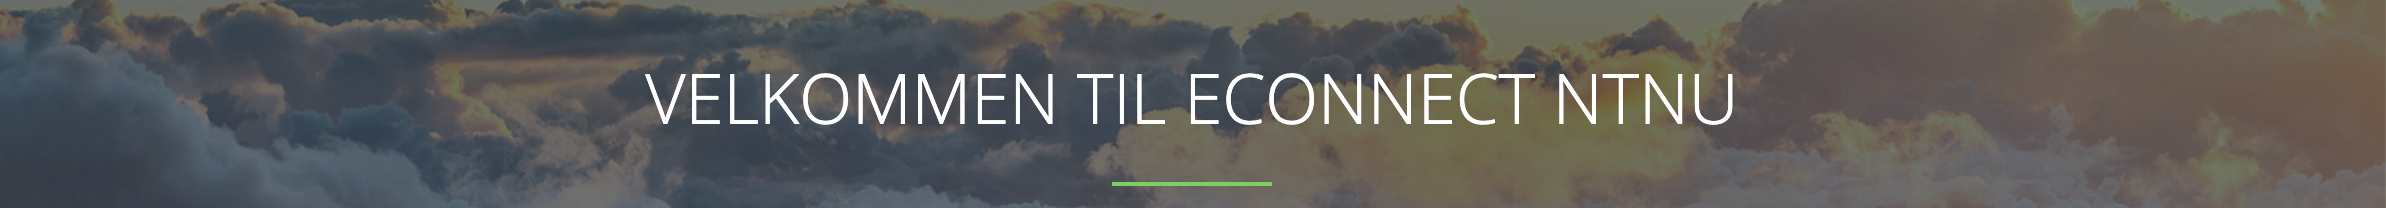
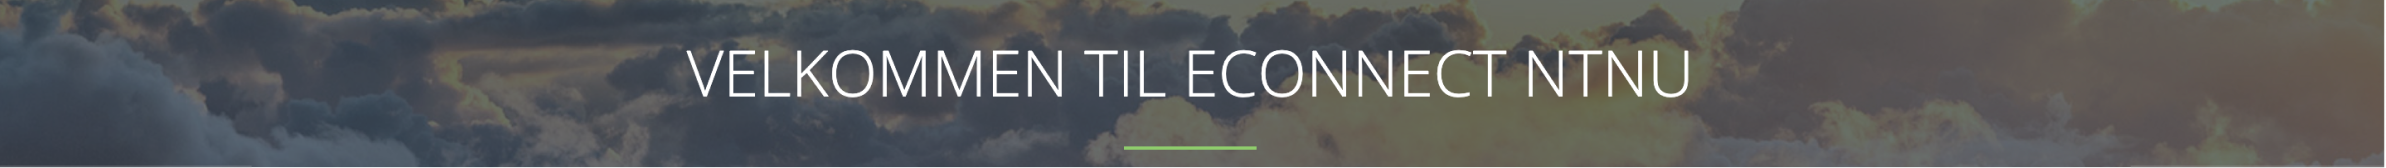
lagde econnectsiden

diff --git a/Documents/econnect.html b/Documents/econnect.html
@@ -15,7 +15,52 @@
   <header>
     <p>header</p>
   </header>
-  <img src="../img/econnect-banner.png" alt="banner" width="100%">
+  <img src="../img/econnect-banner.png" alt="banner" id="econnectBanner">
+
+  <div id="econnectBox">
+    <a href="https://econnect-ntnu.no/" target="_blank">
+      <img src="../img/econnect-logo.jpg" alt="logo" id="econnectLogo">
+    </a>
+    <a href="https://econnect-ntnu.no/" target="_blank">
+      <h5 id="econnectLink">Hjemmeside</h5>
+    </a>
+
+    <h1 class="econnectOm">Om ECONnect:</h1>
+    <div id="econnectTopParagrahp">
+    <p class="econnectOm">
+      ECONnect er fagutvalget for studenter ved Institutt for samfunnsøkonomi på NTNU.<br><br>
+
+      De arbeider for økt faglig kompetanse blant studentene, samt en tettere
+      kontakt mellom dem og næringslivet. Deres hovedoppgave er å fremme studentene
+      som attraktive arbeidstakere for næringslivet og deres mål
+      er å skape en arena der bedrifter kan profilere seg overfor studentene slik at rekrutteringen blir
+      mer målrettet. Dette gjør de ved å arrangere bedriftspresentasjoner, FAGDAG, gjesteforelesninger og FAGUKA m.m. <br>
+    </p></div>
+      <p class="econnectOm"> 
+      ECONnect er en aktiv organisasjon som over tid har bygget en sterk relasjon med
+      de 600 studentene innen samfunnsøkonomi og finansiell økonomi.
+      Resultatet er gjennomgående godt oppmøte av engasjerte studenter på arrangementer
+      i deres regi. De tilbyr en virkningsfull måte for bedrifter å profilere seg som
+      potensielle arbeidsgivere overfor økonomistudenter ved NTNU. <br><br>
+
+      De legger i tillegg ut eksamensbesvarelser på nettsiden deres.
+    </class="econnectOm">
+
+    <img src="../img/econnect-bilde.jpg" alt="bilde" id="econnectBilde">
+
+    <div class="econnectKontakt">
+      <h1>Kontakt</h1>
+      <p>
+        NTNU Handelshøyskolen.<br>
+        ECONnect<br>
+        c/o institutt for samfunnsøkonomi<br>
+        Trondheim 7491<br>
+        Klæbuveien 72<br>
+      </p>
+    </div>
+
+
+  </div>
   <footer>
     <p>hei</p>
   </footer>

diff --git a/css/econnect.css b/css/econnect.css
@@ -19,6 +19,109 @@ header {
   height: 10%
 }
 
+h1 {
+  font-weight: normal;
+  font-size: 95%;
+  line-height: 150%;
+  color: rgba(0, 0, 0, 0.8);
+}
+
+p{
+  margin-top: 0%;
+  font-style: normal;
+  font-weight: normal;
+  font-size: 85%;
+  line-height: 250%;
+  color: rgba(0, 0, 0, 0.6);
+}
+
+
+#econnectBanner {
+  width:100%;
+}
+
+#econnectBox{
+  width: 78%;
+  height: 100%;
+  background-color: white;
+  margin-left: 11%;
+  margin-right: 11%;
+}
+
+#econnectLogo{
+  width: 17%;
+  position: relative;
+  margin-left: 6%;
+  margin-top: 2.9%;
+}
+
+#econnectLink {
+  position: relative;
+  margin-left: 6%;
+  margin-top: 5%;
+}
+
+a:link {
+  font-size: 98%;
+  line-height: 150%;
+  color: rgba(0, 0, 0, 0.8);
+  background-color: transparent;
+  text-decoration: none;
+}
+
+a:visited {
+  font-size: 95%;
+  line-height: 150%;
+  color: rgba(0, 0, 0, 0.8);
+  background-color: transparent;
+  text-decoration: none;
+}
+
+a:hover {
+  color:rgba(0, 0, 0, 0.8);
+  background-color: transparent;
+  text-decoration: underline;
+}
+
+a:active {
+  color: rgba(0, 0, 0, 0.2);
+  background-color: transparent;
+  text-decoration: underline;
+}
+
+h5{
+  font-weight:normal;
+  font-size: 87%;
+}
+
+.econnectOm{
+  margin-left: 6%;
+  font-weight:normal;
+  margin-top: 0%;
+  max-width: 90%;
+}
+
+#econnectTopParagrahp{
+  max-width: 40%;
+  margin-left: 3.5%;
+}
+
+#econnectBilde {
+  width: 50%;
+  float:right;
+  margin-top: -50%;
+  margin-right: 5%;
+  border-radius: 5px;
+}
+
+.econnectKontakt {
+  margin-left: 6%;
+  font-weight:normal;
+  margin-top: 0%;
+  max-width: 45%;
+  padding: 5% 0% 10% 0%;
+  }
+
 footer {
   background-color: #3A4B69;
   width: 100%;
@@ -28,3 +131,4 @@ footer {
   margin-top:auto;
   padding-bottom: 3%
 }
+
